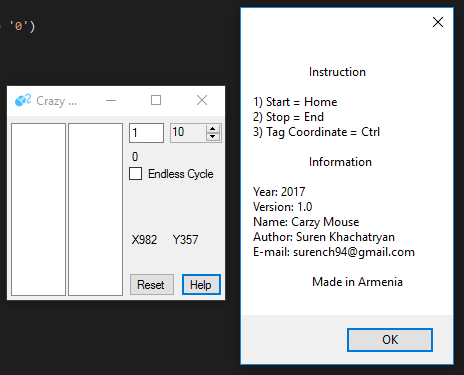
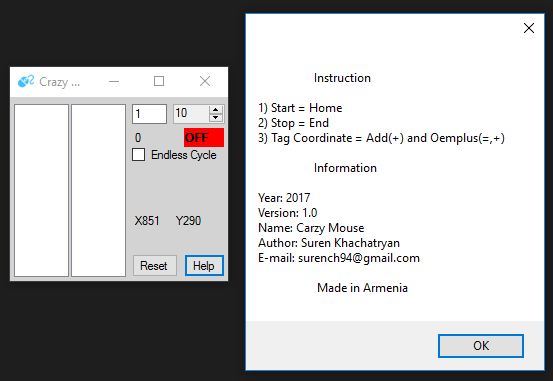
Crazy Mouse

diff --git a/CrazyMouse/CrazyMouse/Form1.cs b/CrazyMouse/CrazyMouse/Form1.cs
@@ -42,52 +42,49 @@ namespace CrazyMouse
         {
             public int vkCode;
         }
-
         private const int WH_KEYBOARD_LL = 13;
-        private const int WM_KEYDOWN = 0x0100;
-        private const int WM_KEYUP = 0x0101;
-        private const int WM_SYSKEYDOWN = 0x0104;
-        private const int WM_SYSKEYUP = 0x0105;
-
-        private List<Keys> HookedKeys = new List<Keys>();
 
         private void HookProc(int Code, int wParam, ref keyBoardHookStruct lParam)
         {
             #region Coordinate Marking
             sum++;
-            if (sum % 2 != 0)
+            Keys key = (Keys)lParam.vkCode;
+            var cursor = new Point();
+            GetCursorPos(ref cursor);
+            if ((key == Keys.Add || key == Keys.Oemplus) && sum % 2 != 0)
             {
-                Keys key = (Keys)lParam.vkCode;
-                var cursor = new Point();
-                GetCursorPos(ref cursor);
-                if (key == Keys.LControlKey || key == Keys.RControlKey)
+                listBoxY.Items.Add("X" + cursor.X.ToString());
+                listBoxX.Items.Add("Y" + cursor.Y.ToString());
+                lsX.Add(Convert.ToInt32(cursor.X.ToString()));
+                lsY.Add(Convert.ToInt32(cursor.Y.ToString()));
+                label2.Text = "OFF";
+                panel1.BackColor = Color.Red;
+            }
+            else
+            if (key == Keys.End && listBoxX.Items.Count != 0 && label2.Text != "Finish")
+            {
+                timer2.Stop();
+                timer1.Start();
+                label2.Text = "OFF";
+                panel1.BackColor = Color.Red;
+            }
+            else
+            if (key == Keys.Home && listBoxX.Items.Count != 0)
+            {
+                if (textBox1.Text != "" )
                 {
-                    listBoxY.Items.Add("X" + cursor.X.ToString());
-                    listBoxX.Items.Add("Y" + cursor.Y.ToString());
-                    lsX.Add(Convert.ToInt32(cursor.X.ToString()));
-                    lsY.Add(Convert.ToInt32(cursor.Y.ToString()));
+                    label1.Text = "0";
+                    mousesteps = 0;
+                    mousestepscount = 0;
+                    timer2.Start();
+                    timer1.Stop();
+                    sum = 0;
+                    label2.Text = "ON";
+                    panel1.BackColor = Color.Green;
                 }
                 else
-                if (key == Keys.End)
                 {
-                    timer2.Stop();
-                    timer1.Start();
-                }
-                else
-                if (key == Keys.Home)
-                {
-                    if (textBox1.Text != "")
-                    {
-                        label1.Text = "0";
-                        mousesteps = 0;
-                        mousestepscount = 0;
-                        timer2.Start();
-                        timer1.Stop();
-                    }
-                    else
-                    {
-                        MessageBox.Show("Please Enter Count Cycle");
-                    }
+                    MessageBox.Show("Please Enter Count Cycle");
                 }
             }
             #endregion
@@ -152,6 +149,8 @@ namespace CrazyMouse
             {
                 timer2.Stop();
                 timer1.Start();
+                label2.Text = "Finish";
+                panel1.BackColor = Color.YellowGreen;
             }
             sum = new int();
         }
@@ -160,7 +159,7 @@ namespace CrazyMouse
         private void button2_Click(object sender, EventArgs e)
         {
             MessageBox.Show("\tInstruction \n\n1) Start = Home \n2) Stop = End \n3) Tag Coordinate " +
-                "= Ctrl\n\n\tInformation\n\nYear: 2017\nVersion: 1.0\nName: Carzy Mouse\nAuthor:" +
+                "= Add(+) and Oemplus(=,+)\n\n\tInformation\n\nYear: 2017\nVersion: 1.0\nName: Carzy Mouse\nAuthor:" +
                 " Suren Khachatryan\nE-mail: surench94@gmail.com\n\n\t Made in Armenia");
         }
 
@@ -173,6 +172,9 @@ namespace CrazyMouse
                 lsX.Clear();
                 lsY.Clear();
                 label1.Text = "0";
+                sum = 0;
+                label2.Text = "OFF";
+                panel1.BackColor = Color.Red;
             }
             else
             {
@@ -199,7 +201,6 @@ namespace CrazyMouse
             }
             else
             {
-
                 textBox1.Enabled = true;
             }
         }

diff --git a/CrazyMouse/CrazyMouse/Form1.Designer.cs b/CrazyMouse/CrazyMouse/Form1.Designer.cs
@@ -42,6 +42,9 @@
             this.timer2 = new System.Windows.Forms.Timer(this.components);
             this.label1 = new System.Windows.Forms.Label();
             this.checkBox1 = new System.Windows.Forms.CheckBox();
+            this.panel1 = new System.Windows.Forms.Panel();
+            this.label2 = new System.Windows.Forms.Label();
+            this.panel1.SuspendLayout();
             this.SuspendLayout();
             // 
             // listBoxY
@@ -1147,11 +1150,33 @@
             this.checkBox1.UseVisualStyleBackColor = true;
             this.checkBox1.CheckedChanged += new System.EventHandler(this.checkBox1_CheckedChanged);
             // 
+            // panel1
+            // 
+            this.panel1.BackColor = System.Drawing.Color.Red;
+            this.panel1.BackgroundImageLayout = System.Windows.Forms.ImageLayout.Center;
+            this.panel1.Controls.Add(this.label2);
+            this.panel1.Location = new System.Drawing.Point(174, 31);
+            this.panel1.Name = "panel1";
+            this.panel1.Size = new System.Drawing.Size(40, 19);
+            this.panel1.TabIndex = 11;
+            // 
+            // label2
+            // 
+            this.label2.AutoSize = true;
+            this.label2.Font = new System.Drawing.Font("Microsoft Sans Serif", 8.25F, System.Drawing.FontStyle.Bold, System.Drawing.GraphicsUnit.Point, ((byte)(204)));
+            this.label2.Location = new System.Drawing.Point(-2, 3);
+            this.label2.Name = "label2";
+            this.label2.Size = new System.Drawing.Size(30, 13);
+            this.label2.TabIndex = 0;
+            this.label2.Text = "OFF";
+            // 
             // Form1
             // 
             this.AutoScaleDimensions = new System.Drawing.SizeF(6F, 13F);
             this.AutoScaleMode = System.Windows.Forms.AutoScaleMode.Font;
+            this.BackColor = System.Drawing.Color.LightGray;
             this.ClientSize = new System.Drawing.Size(218, 184);
+            this.Controls.Add(this.panel1);
             this.Controls.Add(this.checkBox1);
             this.Controls.Add(this.label1);
             this.Controls.Add(this.textBox1);
@@ -1170,6 +1195,8 @@
             this.StartPosition = System.Windows.Forms.FormStartPosition.WindowsDefaultBounds;
             this.Text = "Crazy Mouse";
             this.TopMost = true;
+            this.panel1.ResumeLayout(false);
+            this.panel1.PerformLayout();
             this.ResumeLayout(false);
             this.PerformLayout();
 
@@ -1189,6 +1216,8 @@
         private System.Windows.Forms.Timer timer2;
         private System.Windows.Forms.Label label1;
         private System.Windows.Forms.CheckBox checkBox1;
+        private System.Windows.Forms.Panel panel1;
+        private System.Windows.Forms.Label label2;
     }
 }
 
